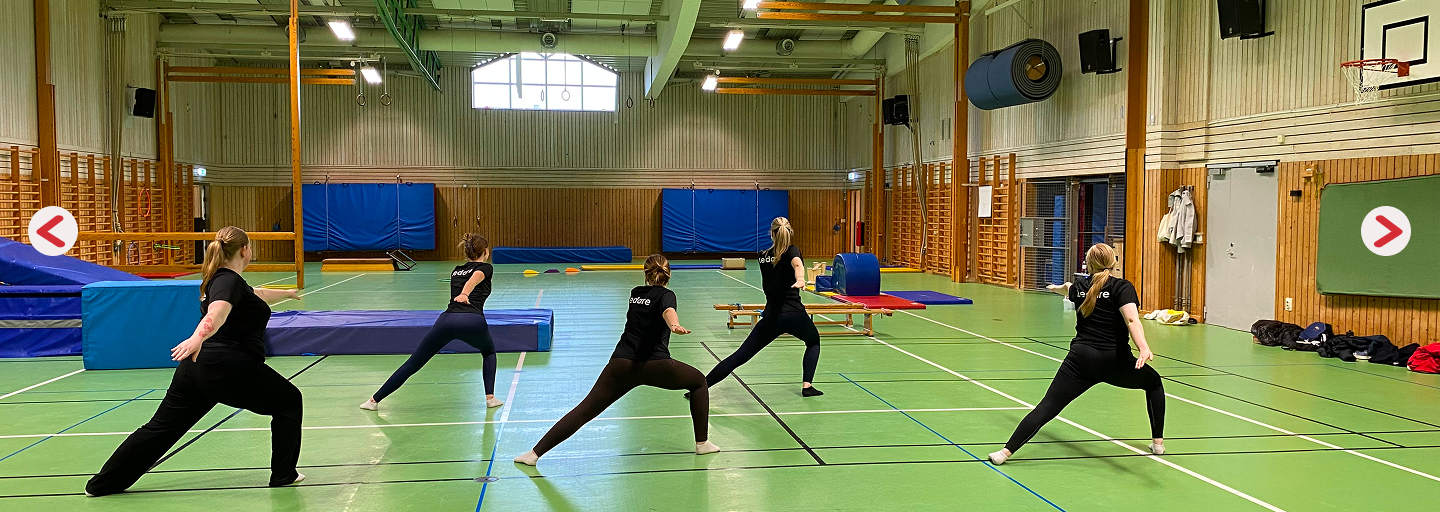
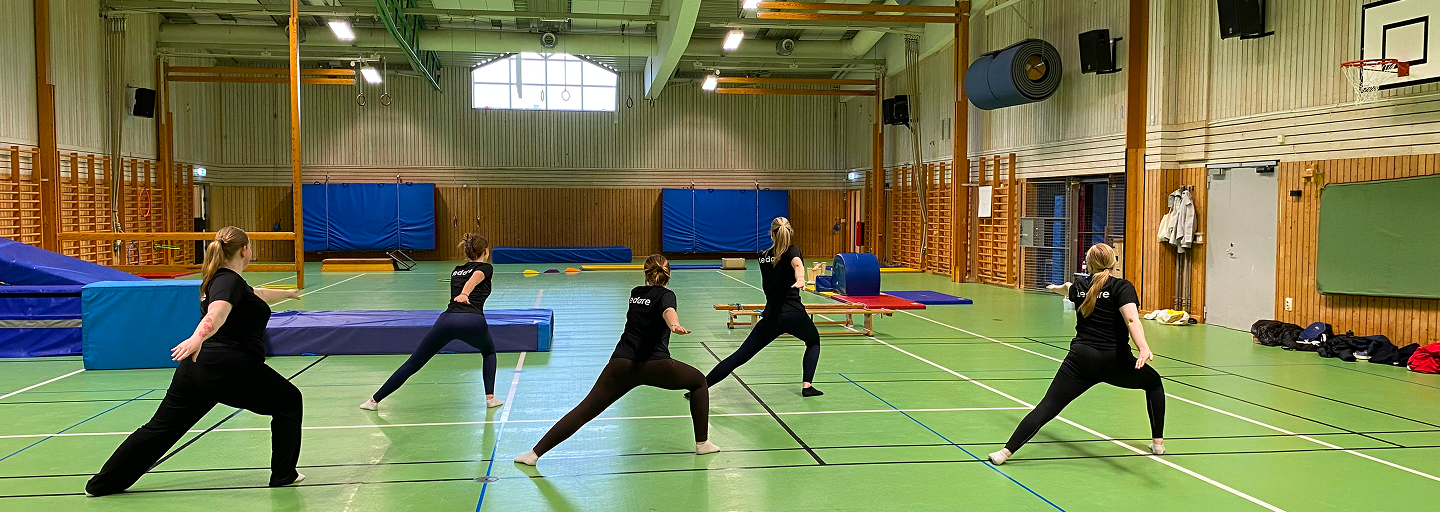
Update styles, layout and homepage content
Various homepage updates: refreshed CSS variables and global colors, set page background and text color, removed body overflow. Home-specific CSS: added h1 sizing, adjusted hero and header heights, improved header text and activity card layout (flex/wrap/gaps). HTML: changed page lang to English, replaced/reordered nav links, removed SG redirect button and home.js script, converted header h2 to h1 and adjusted text. Also replaced assets/pictures/Training1.png (image updated). Coherence and layout improvements across home view.

Changed region(s): [[0.9375, 0.4062, 1.0, 0.5], [0.0, 0.4062, 0.0625, 0.5]]

diff --git a/index.html b/index.html
@@ -1,5 +1,5 @@
 <!DOCTYPE html>
-<html lang="sv">
+<html lang="en">
 
 <head>
     <meta charset="UTF-8">
@@ -8,7 +8,6 @@
     <link rel="icon" href="assets/pictures/old-logo.png" type="image/x-icon" />
     <link rel="stylesheet" href="css/common.css">
     <link rel="stylesheet" href="css/home.css">
-    <script src="js/home.js" defer></script>
 </head>
 
 <body>
@@ -17,7 +16,8 @@
             <img src="assets/pictures/old-logo.png" alt="">
         </div>
         <div class="nav-section">
-            <a href="">Aktiviteter</a>
+            <a href="">Hem</a>
+            <a href="">Om oss</a>
             <div class="dropdown">
                 <a class="schema">Schema</a>
                 <div class="dropdown-content">
@@ -26,12 +26,9 @@
                     <a href="#">Schema 3</a>
                 </div>
             </div>
-            <a href="">Priser</a>
-            <a href="">Om Oss</a>
-            <button id="sg-redirect">
-                <img id="redirect" src="assets/symbols/redirect-link.png" alt="Länk symbol till Svensk Gymnastik">
-                <img id="SG-logo"src="assets/symbols/svensk-gymnastic.png" alt="Svensk Gymnastik logo">
-            </button>
+            <a href="">Anmälan</a>
+            <a href="">Aktiviteter</a>
+            <a href="">Alla kan gympa</a>
         </div>
     </nav>
     <main class="home-content">
@@ -58,11 +55,12 @@
         </header>
 
         <section class="header-text-section">
-            <h2>
+            <h1>
                 Hitta glädjen i rörelsen - Gympa för alla!
-            </h2>
+            </h1>
             <p>Vi erbjuder gymnastik för barn, ungdomar och vuxna - här finns plats för lek, träning och gemenskap, <br>oavsett ålder eller nivå.</p>
         </section>
+        
     </main>
 </body>
 

diff --git a/css/home.css b/css/home.css
@@ -1,13 +1,16 @@
-
 main{
     display: flex;
     flex-direction: column;
     
 }
 
+h1{
+    font-size: 2.5rem;
+}
+
 .hero-carousel {
     position: relative;
-    height: 50vh;
+    height: calc(70vh - 2.5rem);
 
     min-height: 20rem;
     overflow: hidden;
@@ -118,9 +121,35 @@ main{
     align-items: center;
     justify-content: center;
     text-align: center;
-    padding: 2rem 1rem;
+    gap: 1.5rem;
+    height: calc(30vh - 2.5rem);
 }
 
+.header-text-section p {
+    font-size: 1.5rem;
+    margin: 0;
+}
+
+.header-text-section h1 {
+    margin: 0;
+}
+
+#activity-card-section{
+    display: flex;
+    flex-direction: column;
+    align-items: center;
+    justify-content: center;
+    text-align: center;
+    gap: 1.5rem;
+    height: 100vh;
+}
+
+.activity-cards{
+    display: flex;
+    flex-wrap: wrap;
+    justify-content: center;
+    gap: 2rem;
+}
 
 @media (max-width: 600px) {
     nav {

diff --git a/css/common.css b/css/common.css
@@ -5,6 +5,7 @@
 :root {
   --main-color: #D42D35;
   --light-color: #F3EDED;
+  --black-color: #150203;
 }
 
 html,
@@ -12,10 +13,11 @@ body {
     margin: 0;
     padding: 0;
     min-height: 100%;
+    background-color: var(--light-color);
+    color: var(--black-color)
 }
 
 body {
-    overflow: hidden;
     font-family: Arial, sans-serif;
 }
 
@@ -99,4 +101,3 @@ nav {
     height: 3rem;
     object-fit: cover;
 }
-
